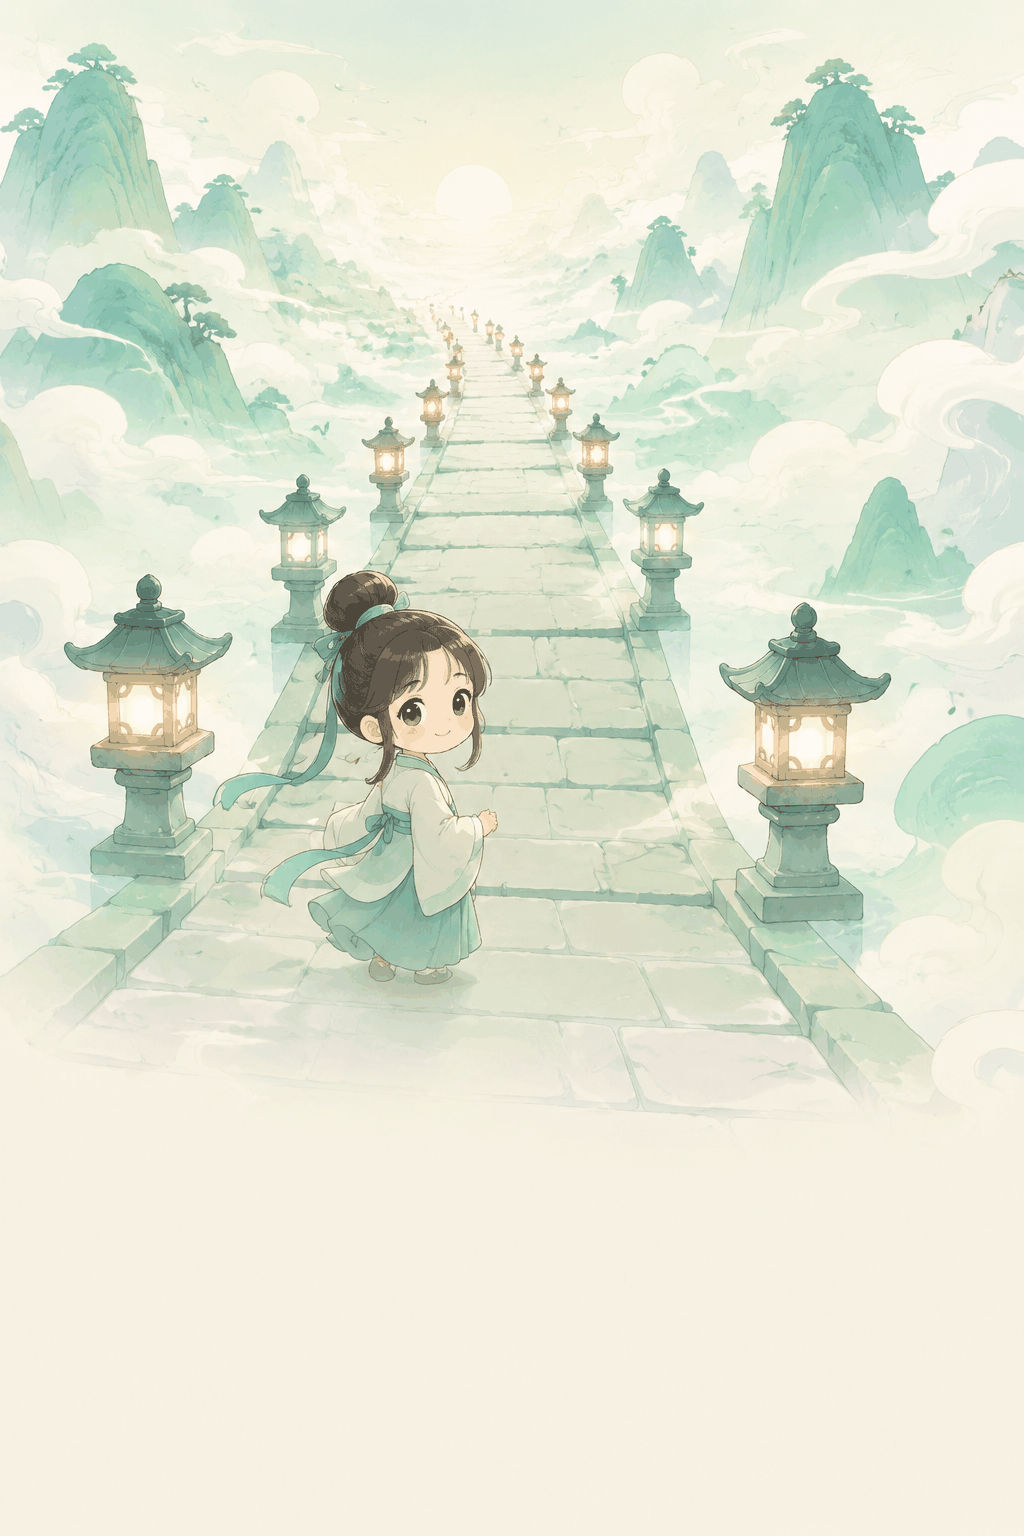
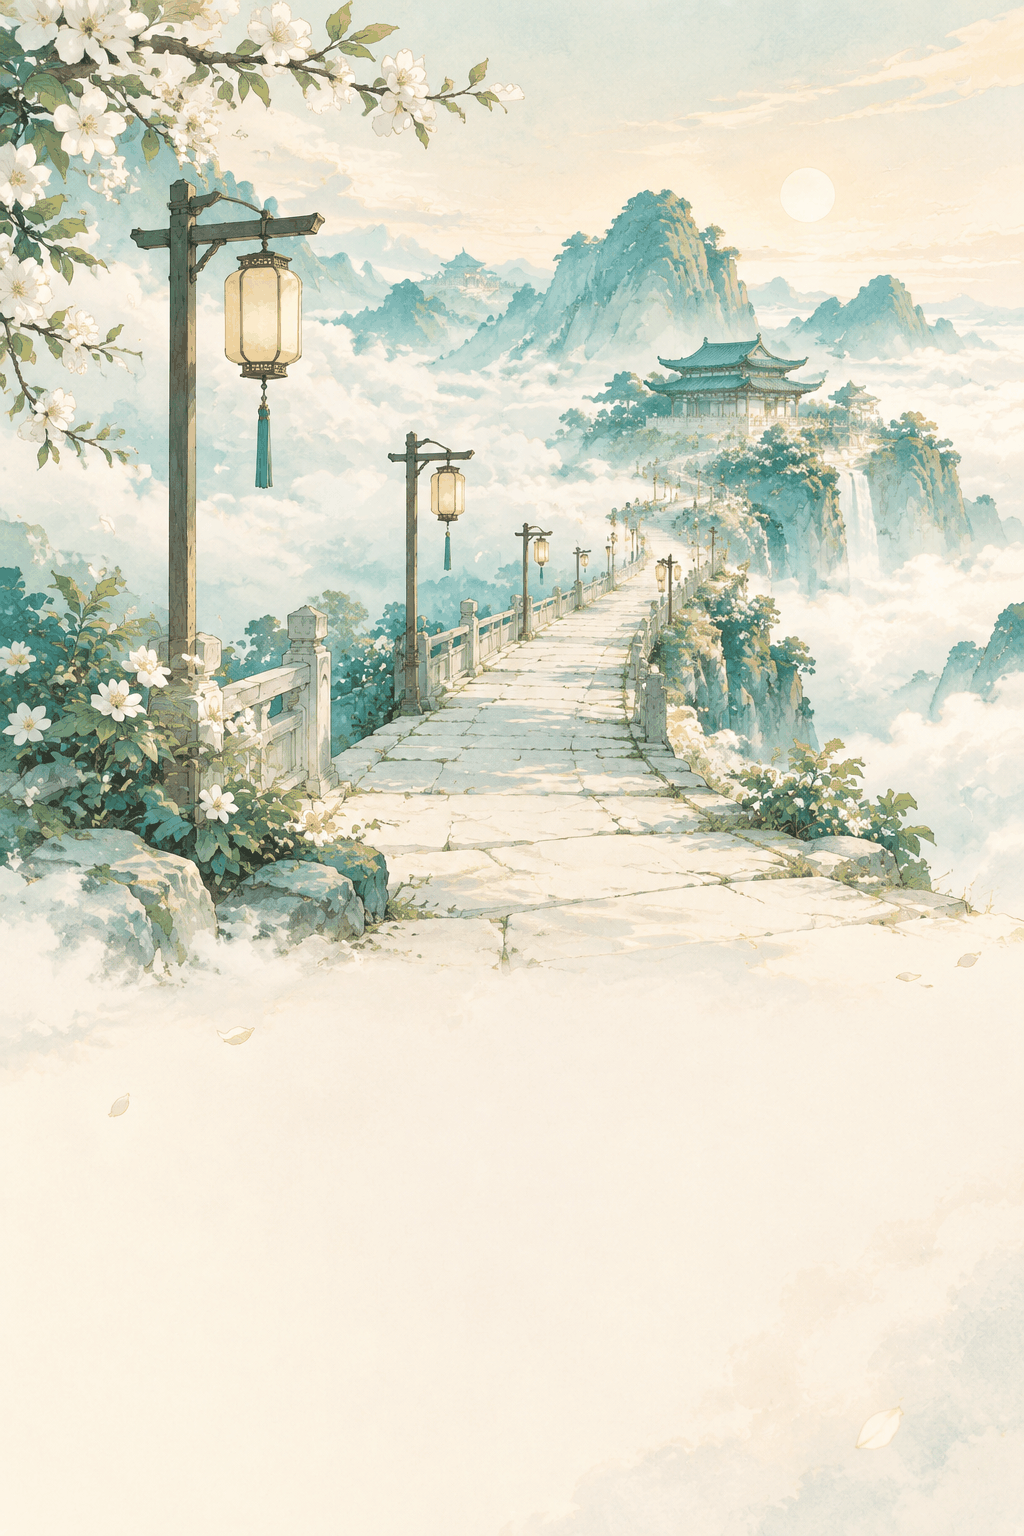
答题界面主角加大、无尽主角靠上并重绘无人背景

diff --git a/src/components/game/endless-view.tsx b/src/components/game/endless-view.tsx
@@ -340,16 +340,16 @@ export function EndlessView() {
       <Stage bg={GAME_BACKGROUNDS.endless}>
         <StageHud title="无尽模式" backTo="/" />
         <div className="absolute inset-x-3 inset-y-0 z-10 flex translate-y-[1.5dvh] flex-col justify-center pb-[max(1rem,env(safe-area-inset-bottom))]">
-          {/* 开局仪式感：唐小诗立绘跃然卷上（审查 P1-13） */}
-          <div className="relative mx-auto mb-2 flex h-28 items-end justify-center">
+          {/* 开局仪式感：唐小诗立绘跃然卷上（审查 P1-13），随答题界面一并放大 */}
+          <div className="relative mx-auto mb-2 flex h-36 items-end justify-center">
             <span className="sprite-shadow" />
             <img
               src="/sprites/hero.png"
               alt=""
-              className="idle-bob relative z-10 h-28 w-auto object-contain object-bottom drop-shadow-lg"
+              className="idle-bob relative z-10 h-36 w-auto object-contain object-bottom drop-shadow-lg"
             />
           </div>
-          {/* 背景人物恰在面板脚下：本面板局部垫一层柔光纸底防穿模 */}
+          {/* 面板脚下垫一层柔光纸底：任何背景上都保持纸面可读 */}
           <div className="relative">
             <span aria-hidden className="absolute -inset-1 -z-10 rounded-2xl bg-[#f7f0df]/60 backdrop-blur-md" />
             <ArtPanel className="text-center">
@@ -560,9 +560,9 @@ export function EndlessView() {
         <div className="qi-fill qi-flow h-full rounded-full bg-seal" style={{ width: `${qi}%` }} />
       </div>
 
-      {/* 唐小诗情绪位：答对欢呼、答错沮丧，与环游答题同款反馈 */}
-      <div className="absolute inset-x-0 bottom-[33%] z-10 flex justify-center">
-        <div className="relative flex h-28 items-end justify-center">
+      {/* 唐小诗情绪位：钉在题卡上沿之上（靠上、加大，矮屏自动收敛），答对欢呼、答错沮丧 */}
+      <div className="absolute inset-x-0 bottom-[calc(23rem_+_env(safe-area-inset-bottom))] z-10 flex justify-center">
+        <div className="relative flex h-[clamp(6rem,calc(100dvh_-_31rem),10rem)] items-end justify-center">
           <span className="sprite-shadow" />
           <img
             src={pose === "happy" ? HERO.happy : pose === "sad" ? HERO.sad : HERO.idle}
@@ -571,7 +571,7 @@ export function EndlessView() {
             onError={(e) => {
               e.currentTarget.style.visibility = "hidden";
             }}
-            className={`relative z-10 h-28 w-auto object-contain object-bottom drop-shadow-lg ${
+            className={`relative z-10 h-[clamp(6rem,calc(100dvh_-_31rem),10rem)] w-auto object-contain object-bottom drop-shadow-lg ${
               pose === "happy" ? "mood-happy" : pose === "sad" ? "mood-sad" : "idle-bob"
             }`}
           />

diff --git a/src/components/game/level-quiz.tsx b/src/components/game/level-quiz.tsx
@@ -418,9 +418,9 @@ export function LevelQuiz({
             />
           </div>
 
-          {/* 唐小诗（情绪形态）：靠上居中，与题卡留出呼吸空间 */}
+          {/* 唐小诗（情绪形态）：靠上居中放大（矮屏自动收敛），与题卡留出呼吸空间 */}
           <div className="absolute inset-x-0 top-[max(9.2rem,calc(env(safe-area-inset-top)+8.8rem))] z-10 flex justify-center">
-            <div className="relative flex h-28 items-end justify-center">
+            <div className="relative flex h-[clamp(7rem,calc(100dvh_-_32rem),10rem)] items-end justify-center">
               <span className="sprite-shadow" />
               <img
                 src={pose === "happy" ? HERO.happy : pose === "sad" ? HERO.sad : HERO.idle}
@@ -428,7 +428,7 @@ export function LevelQuiz({
                 onError={(e) => {
                   e.currentTarget.style.visibility = "hidden";
                 }}
-                className={`relative z-10 h-28 w-auto object-contain object-bottom drop-shadow-lg ${
+                className={`relative z-10 h-[clamp(7rem,calc(100dvh_-_32rem),10rem)] w-auto object-contain object-bottom drop-shadow-lg ${
                   pose === "happy" ? "mood-happy" : pose === "sad" ? "mood-sad" : "idle-bob"
                 }`}
               />

diff --git a/changelog.md b/changelog.md
@@ -2,6 +2,14 @@
 
 本文件记录项目的产品、玩法、工程和文档变更。未发布变更统一放在 `[Unreleased]`，发布版本再改为具体版本号。每次修改项目相关内容时，必须同步追加一条记录。
 
+## [Unreleased] - 2026-09-07（答题界面主角走查优化）
+
+### Changed
+
+- **答题界面主角形象加大**：闯关模式与无尽模式答题场的唐小诗立绘从 `h-28`（112px）加大到最高 `h-40`（160px），无尽开场立绘同步加大到 `h-36`。尺寸随视口高度自适应（`clamp`）：390×844 满档 160px，360×640 收敛到 128/144px，320×568 矮屏回落，保证主角头顶不压 HUD、脚不没入题卡（走查脚本 `scripts/hero-style-shots.mjs`，基线与改后截图存 `screenshots/hero-style-*`）。
+- **无尽模式主角位置靠上**：无尽答题场主角锚点从 `bottom-[33%]`（矮屏会被题卡挡住半身）改为钉在题卡上沿之上 `bottom-[calc(23rem+safe-area)]`，三档屏幕实测与题卡保持 12–16px 呼吸空隙。
+- **无尽背景图重绘为纯风景空镜**：旧 `public/art/bg/endless.png` 里画了一个小女孩，与前景唐小诗立绘穿模（主角只露出头部）。按 `docs/art.md` 背景「必须空无一人」的既定规范用 `python3 scripts/art/backgrounds.py --only=bg-endless --force` 重生成（云海石板路 + 灯笼 + 远山楼阁，无人），并走 256 色量化压缩（2148KB → 847KB）。
+
 ## [Unreleased] - 2026-09-07（点睛联优先出题）
 
 ### Changed
